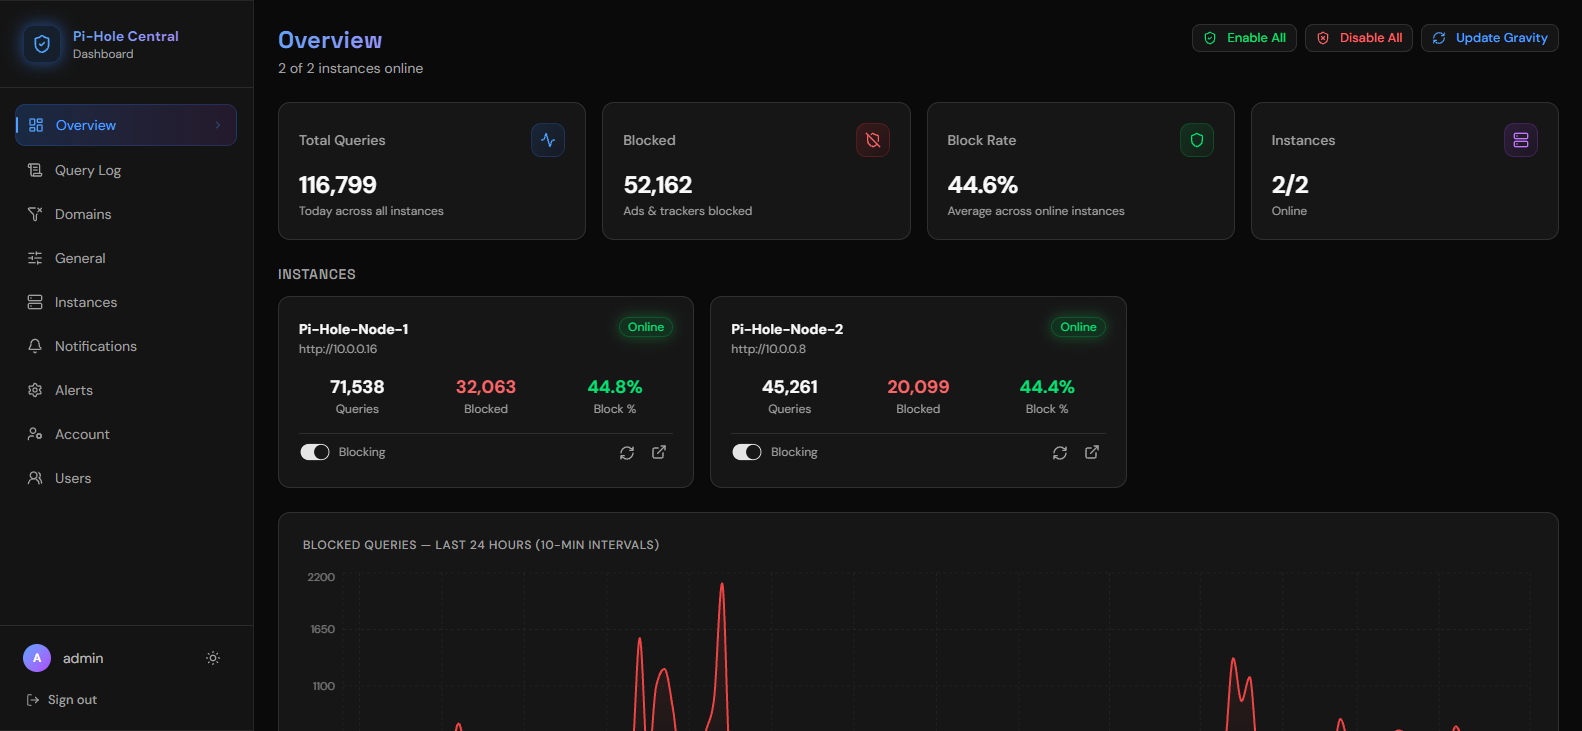
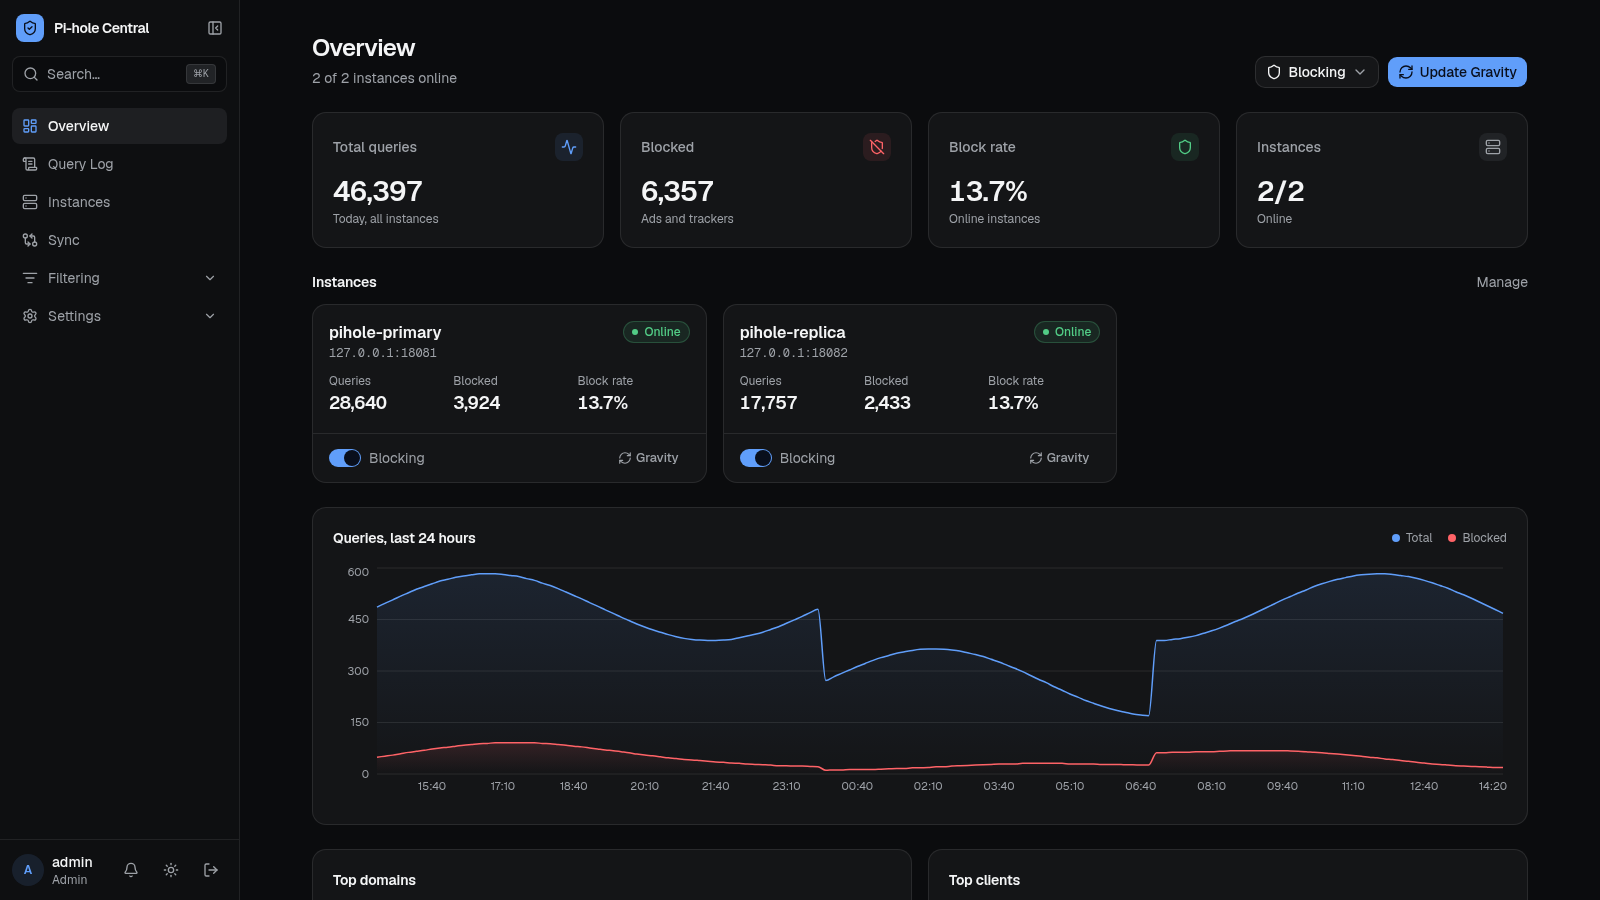
docs: security hardening section, SECURITY-AUDIT.md and a new screenshot
- README: how the app was audited (Cloudflare security-audit skill, five
  scoped runs, independently reproduced findings), how the fixes were proven
  (fail-then-pass lab tests, live checks, 275-assertion regression) and what
  changed
- SECURITY-AUDIT.md: all 42 audit records with verdict, status and fix
- docs/screenshot.png: current UI (demo data)

diff --git a/SECURITY-AUDIT.md b/SECURITY-AUDIT.md
@@ -1,0 +1,99 @@
+# Security audit and fix pass
+
+Pi-Hole Central was audited in November 2026 with the open-source [security-audit skill from Cloudflare](https://github.com/cloudflare/security-audit-skill) (commit `c1c8a8c`), run by Claude Code agents under the maintainer's direction, and every result was then fixed and re-tested. This file lists every record the audit produced and how it was closed. It is a self-run audit, not a third-party penetration test.
+
+## How the audit worked
+
+- **Five scoped runs**, each with its own budget of agents:
+  - Run 1: Unauthenticated surface, sign-in and sessions, viewer-to-admin authorization on every API route, live event stream, users, audit log.
+  - Run 2: SSH command construction and host keys, Pi-hole API path building, background jobs (poller, recovery, watchdog, DNS schedules).
+  - Run 3A: Secrets at rest and in transit, SSRF and other outbound requests.
+  - Run 3B: Backups and restore, rendering, audit log, nebula-sync parsing.
+  - Run 4: Build, deploy and supply chain.
+- **Hunters, verifiers, critics.** Hunter agents looked for issues; independent verifier agents had to **reproduce** each candidate in an isolated lab (no network access, a read-only copy of the code, mock Pi-hole and SSH servers) before it counted; critic passes looked for areas the hunters missed. Leads that only a real deployment could settle were checked read-only against the live system.
+- **Verdicts are never edited afterwards.** "Confirmed" = reproduced; "Lead, checked" = needed a live check, then fixed; "Rejected" = the reproduction or the threat model did not hold.
+
+## How the fixes were verified
+
+- Each fix shipped with a **lab check that fails on the old code and passes on the new one**, and a **live check** after it was deployed.
+- Fixes were deployed in phases with a pinned, SHA-verified deploy and a database backup before each one.
+- A **final regression run** on the released code: 275 lab assertions, 0 failures. Automatic recovery was also tested live on a real Pi-hole node (FTL stopped, network path cut, update in progress).
+
+**Totals:** 42 records: 21 confirmed findings (2 Medium, 19 Low; none Critical or High), 15 leads, 6 rejected. Every confirmed finding and lead is fixed; two rejected items were hardened anyway. **None is open.**
+
+## Run 1: Unauthenticated surface, sign-in and sessions, viewer-to-admin authorization on every API route, live event stream, users, audit log
+
+| ID | Verdict | Finding (as recorded) | Status | Fix |
+|---|---|---|---|---|
+| R1-NV1 | Lead, checked | Admin API POST routes accept text/plain requests from other origins on the same site, because SameSite=Lax is the only CSRF control | Hardened | State-changing API calls and the live stream now require a same-origin request (Sec-Fetch-Site / Origin); cross-site requests get 403. |
+| R1-NV2 | Lead, checked | Session cookie is non-Secure and host-only on the bare IP, so any other HTTP service on that IP can read or replace it, and it travels in cleartext | Fixed | Run behind an HTTPS reverse proxy with Secure `__Host-`/`__Secure-` cookies, the app port firewalled to the proxy, and the proxy-to-app hop also on TLS with CA verification (see README). |
+| R1-F2 | Confirmed (Low) | SSE live stream keeps sending data to a user after the app deletes them | Fixed | The live stream ends when the user is deleted or their session is revoked (re-checked every 30 s). |
+| R1-F3 | Confirmed (Low) | Settings and watchdog PUT save earlier fields, then return 400; the settings change gets no audit row, including from the shipped Sync page save | Fixed | The whole body is validated first, written in one transaction, then audited; malformed JSON returns 400 with nothing saved. |
+| R1-F4 | Confirmed (Low) | Audit log records a caller-chosen IP address from X-Forwarded-For | Fixed | The audit IP comes only from the proxy-set `X-Real-IP`, never from `X-Forwarded-For`. |
+| R1-F5 | Confirmed (Low) | Security-relevant changes (watchdog, notification channels, alert settings, own password, Unbound actions, sign-ins) leave no audit-log row | Fixed | All security-relevant changes and every sign-in (success and failure) are audited; failed-sign-in rows are capped so they cannot flood the log. |
+| R1-F1 | Confirmed (Medium) | Captured session tokens stay valid after password change, admin password reset and sign-out (stateless JWT with no credential binding) | Fixed | Each user has a token version carried in the session: password change, admin reset, demotion and sign-out end every session that user has. |
+| R1-F6 | Confirmed (Low) | User PATCH commits a role change before validating the password, then returns 400 without an audit record | Fixed | Role and password changes are validated before anything is saved, then applied and audited together. |
+
+## Run 2: SSH command construction and host keys, Pi-hole API path building, background jobs (poller, recovery, watchdog, DNS schedules)
+
+| ID | Verdict | Finding (as recorded) | Status | Fix |
+|---|---|---|---|---|
+| R2-F2 | Confirmed (Low) | Instance URL change keeps the stored SSH password and sends it to the new host, which is pinned on first use | Fixed | Changing an instance's host clears its stored SSH password. |
+| — | Rejected | Admin API POST routes accept text/plain requests from other origins on the same site, because SameSite=Lax is the only CSRF control (no same-site attacker origin exists on the live access path) | No change | Not a vulnerability (reproduction or threat model did not hold). |
+| R2-F3 | Confirmed (Low) | Admin session cookie and login password travel in cleartext over plain HTTP on a flat LAN shared with less-trusted devices, and a captured token replays as admin for up to 30 days | Fixed | As R1-NV2: HTTPS-only access through a reverse proxy, Secure cookies, app port closed to everything but the proxy. |
+| R2-F4 | Confirmed (Low) | A viewer can hold any number of non-reading /api/events streams, and each one keeps one more frame in the shared Node process every 30 s with no bound (no backpressure check, no subscriber cap, no stalled-reader timeout) | Fixed | Per-user and per-process stream caps, and nothing is queued to a stream that is not reading, so memory stays flat; a stalled connection itself is closed by the reverse proxy's send timeout. |
+| R2-NV1 | Lead, checked | Viewer can force unlimited, uncoalesced root SSH sessions (docker inspect/logs) to the nebula host via /api/nebula/status?refresh=1 | Fixed | Forced refresh is admin-only, refreshes are coalesced with a 10 s minimum interval, and container logs are shown to admins only. |
+| R2-F1 | Confirmed (Medium) | Unauthenticated login attempts run cost-12 pure-JS bcrypt on the shared event loop with no rate or concurrency gate | Fixed | Sign-in is gated per address and per user, and password hashing runs in a worker thread instead of the event loop. |
+| R2-F5 | Confirmed (Low) | Disabling, deleting or narrowing a DNS schedule mid-window can be overwritten by an in-flight cron evaluation, leaving the window state (e.g. blocking off) applied indefinitely | Fixed | A schedule lock stops an in-flight evaluation from overwriting a schedule that was just disabled, deleted or narrowed. |
+| R2-NV2 | Lead, checked | Viewer sessions can keep many uncached, uncancelled live Pi-hole API calls (30-day history, 1000-row query scans) running on the DNS nodes, including admin-disabled ones | Fixed | Long history is cached with in-flight coalescing, heavy node calls are limited to one per node, calls are cancelled when the browser disconnects, disabled nodes get no calls, and query parameters are clamped. |
+| R2-F6 | Confirmed (Low) | A dot-only item ('.' or '..') in a Pi-hole API path segment retargets the request, so reverting a temporary regex allow/deny of '.' never removes the stored entry | Fixed | Dot-only path items are rejected before any node call. |
+| R2-F7 | Confirmed (Low) | Disabling a Pi-hole instance does not stop an in-flight SSH recovery loop; re-enabling it starts a second concurrent loop | Fixed | Disabling or deleting a node cancels its in-flight recovery at the next step; a re-enable cannot start a second loop. |
+| R2-NV3 | Lead, checked | No per-node operation lock between an admin-started 'pihole -up' and automated SSH recovery, so recovery can restart FTL (and, if the API stays down, reboot) mid-update | Fixed | A per-node maintenance lock is shared by update, gravity, backup, recovery and watchdog; a second update is refused while one runs. |
+| R2-F8 | Confirmed (Low) | Recovery restart/reboot budget and the 'manual intervention required' stop are held only in memory, so every app restart re-arms 3 FTL restarts and a 'sudo reboot' (and resets the watchdog cooldown) | Fixed | The recovery budget and the "manual intervention required" stop are stored in the database and survive restarts; at most one automatic reboot per node per 24 h. |
+| R2-NV4 | Lead, checked | Automated recovery restarts FTL three times and then reboots each Pi-hole node based only on app-side HTTP timeouts, with no node-local or DNS-plane check and no cross-node coordination | Fixed | Before any restart or reboot the app checks the node's own API and DNS over SSH; a reboot also needs local DNS down; if every node fails at once, or the app itself stalls, it alerts instead of acting; never two nodes at once. |
+| R2-NV5 | Lead, checked | Watchdog turns the CLOSE-WAIT count on a node's :80 (web plane) into a restart of pihole-FTL (DNS plane), with only an in-memory 15-minute cooldown per node and no staggering across nodes | Fixed | The watchdog counts FTL's web ports (80 and 443), restarts only when the API is down on the node itself, and keeps its cooldown and a daily cap in the database. |
+
+## Run 3A: Secrets at rest and in transit, SSRF and other outbound requests
+
+| ID | Verdict | Finding (as recorded) | Status | Fix |
+|---|---|---|---|---|
+| R3A-F1 | Confirmed (Low) | Changing the backup webhook URL keeps the stored X-Webhook-Token and sends it to the new destination | Fixed | Changing the webhook URL clears the stored token unless a new token is supplied with it. |
+| R3A-NV1 | Lead, checked | Backup webhook X-Webhook-Token is forwarded to any cross-origin redirect target | Fixed | Webhook requests never follow redirects. |
+| R3A-NV2 | Lead, checked | Viewer-readable nebula status returns raw nebula-sync container logs, unfiltered, from a root SSH session | Fixed | As R2-NV1: raw container logs are returned to admins only. |
+| R3A-F2 | Confirmed (Low) | Unbounded email push awaited under the global poll mutex stalls offline detection and auto-recovery for all Pi-hole nodes | Fixed | SMTP connections have timeouts, and sending a notification no longer holds up polling or recovery. |
+| R3A-F3 | Confirmed (Low) | Email channel sends SMTP AUTH credentials in cleartext when an on-path party strips STARTTLS | Fixed | SMTP requires TLS before it authenticates. |
+| R3A-NV3 | Lead, checked | Pi-hole node password and SID go over plain http to an admin-configured hostname, which may be resolved through a managed Pi-hole | Fixed | Nodes are reached over https, trusted against your own CA only (`PIHOLE_CA_PATH`); IP-literal instance URLs avoid DNS lookups through the nodes themselves. |
+| R3A-NV4 | Lead, checked | A Pi-hole node can redirect the app server's Pi-hole fetches to any destination, and viewers can read the response (request forgery from the app's network position) | Fixed | Node requests never follow redirects (any 3xx is an error), and each session is bound to the URL that issued it. |
+
+## Run 3B: Backups and restore, rendering, audit log, nebula-sync parsing
+
+| ID | Verdict | Finding (as recorded) | Status | Fix |
+|---|---|---|---|---|
+| R3B-NV1 | Lead, checked | Teleporter zip download is served with no cache directives; caching by the reverse proxy is unverified | Fixed | Backup downloads are sent with `Cache-Control: no-store`. |
+| R3B-F1 | Confirmed (Low) | Deleting an instance leaves its Teleporter backup zips on disk, outside the UI and retention | Fixed | Deleting an instance also deletes its backup files. |
+| R3B-NV2 | Lead, checked | A Teleporter restore that reaches the node but gets a node error or the 60 s timeout leaves no audit row | Fixed | Restores are audited whatever the node answers, including errors and timeouts. |
+| — | Rejected | Teleporter restore can permanently reinstate an expired 'temporary' allow/deny entry and desync scheduled blocking state | No change | Not a vulnerability (reproduction or threat model did not hold). |
+| R3B-F2 | Confirmed (Low) | Any 2xx Teleporter reply counts as a good backup and rotates valid restore points out of keep-last-N retention | Fixed | Only a valid Teleporter archive counts as a backup, so a bad reply can never rotate good restore points out. |
+| R3B-F3 | Confirmed (Low) | A backup whose row insert fails (instance deleted mid-export) leaves an untracked Teleporter zip on disk | Fixed | The backup row is written before the file, and every failure path removes the file. |
+| — | Rejected | Nebula drift check compares only item counts, so divergence that keeps counts equal reads as in sync (a monitoring-coverage limit, not a vulnerability) | No change | Not a vulnerability (reproduction or threat model did not hold). |
+| R3B-F4 | Confirmed (Low) | Teleporter export reads a node-controlled body of any size into memory and writes it to the shared data volume | Fixed | Node replies, including Teleporter exports, are size-capped. |
+
+## Run 4: Build, deploy and supply chain
+
+| ID | Verdict | Finding (as recorded) | Status | Fix |
+|---|---|---|---|---|
+| — | Rejected | Checkout .env is baked into the image as /app/.env and reloaded at start (hardening only: no lower-trust actor or affected principal) | Hardened | Hardened anyway: `.env` is excluded from the image build context. |
+| — | Rejected | Root container writes the SQLite DB and Teleporter backups with default modes (0644, dirs 0755) into the host ./data bind mount | Hardened | Hardened anyway: the data directory and files are owner-only. |
+| R4-NV1 | Lead, checked | No frame-ancestors / X-Frame-Options: a same-site sibling origin can clickjack one-click admin actions (e.g. disable DNS blocking on a node) | Fixed | `Content-Security-Policy: frame-ancestors 'none'` and `X-Frame-Options: DENY` (plus `nosniff` and a same-origin referrer policy). |
+| — | Rejected | The better-sqlite3 native addon in the runtime image comes from a mutable GitHub release asset that no digest pins | No change | Not a vulnerability (reproduction or threat model did not hold). |
+| R4-NV2 | Lead, checked | deploy.sh pulls over unauthenticated plain HTTP and runs whatever commit it receives as root on the LXC, with no signature or expected-SHA check | Fixed | The deploy script fetches over SSH with a pinned host key and a read-only deploy key, deploys only an expected full commit SHA that fast-forwards from what is live, and re-runs itself from the verified commit; the main branch is protected. |
+
+## Known limits, decided rather than overlooked
+
+- Encrypted fields are not bound to their database row (no AAD): adding it means a new ciphertext format and re-encrypting everything; the encryption key is never rotated.
+- A viewer account can read some admin configuration through the API, and error text is not filtered for viewers. Revisit if you give viewers to people you do not trust.
+- Traffic between your reverse proxy and other apps, network segmentation and ARP-level attacks on the LAN are outside this app.
+
+## Reporting a vulnerability
+
+Please use GitHub's private reporting (**Security → Report a vulnerability**) rather than a public issue.

diff --git a/README.md b/README.md
@@ -121,18 +121,43 @@ Two roles, enforced on the server:
 
 ---
 
-## Security
+## Security and hardening
 
-The code went through a multi-pass security audit and fix pass in 2026. Highlights:
+Pi-Hole Central was built with an AI coding agent, so before this release it went through a structured security audit and fix pass instead of being taken on trust. The audit used the open-source [security-audit skill from Cloudflare](https://github.com/cloudflare/security-audit-skill), run by Claude Code agents under the maintainer's direction. It is not a third-party penetration test, but every finding had to be reproduced before it counted, and every fix had to be proven by a test. **The full list of findings and fixes is in [SECURITY-AUDIT.md](SECURITY-AUDIT.md).**
 
-- Sessions are revoked on password change, admin reset, demotion and sign-out
-- Sign-in is rate-limited per address and per user; password hashing runs off the main thread
-- State-changing API calls and the live stream refuse cross-site requests; the dashboard cannot be framed
-- Pi-hole and SSH passwords are stored encrypted (AES-256-GCM); node traffic can be pinned to your own CA
-- Viewer-reachable node calls are cached, coalesced and limited per node; disabled nodes get no calls
-- Deploys and Docker images are pinned; the container runs with an owner-only data directory
+**The audit (November 2026).** Five scoped runs covered the codebase:
 
-Please report security issues privately via GitHub (Security → Report a vulnerability) rather than in a public issue.
+| Run | Scope |
+|---|---|
+| 1 | Unauthenticated surface, sign-in and sessions, viewer-to-admin authorization on every API route, the live event stream, users, audit log |
+| 2 | SSH command construction and host keys, Pi-hole API path building, background jobs (poller, recovery, watchdog, DNS schedules) |
+| 3A | Secrets at rest and in transit, SSRF and other outbound requests |
+| 3B | Backups and restore, rendering, audit log, nebula-sync parsing |
+| 4 | Build, deploy and supply chain |
+
+Hunter agents looked for issues, independent verifier agents had to **reproduce each candidate** in an isolated lab (no network access, a read-only copy of the code, mock Pi-holes and SSH servers), and critic passes looked for areas the hunters missed.
+
+**Result:** 42 records: 21 confirmed findings (2 Medium, 19 Low, none Critical or High), 15 leads that needed checking against a real deployment, and 6 rejected as not vulnerabilities. **All 36 confirmed findings and leads are fixed or hardened; none is open.**
+
+**The fix pass.** Fixes shipped in phases, each deployed separately, each with:
+- a **lab test that fails on the old code and passes on the new** (a test that passes either way proves nothing);
+- a **live check** on the running deployment after release;
+- and a **final regression run** over the released code: 275 lab assertions, 0 failures.
+
+Some of what changed:
+- **Sessions and sign-in:** sessions can be revoked (password change, admin reset, demotion and sign-out end every session); sign-in is rate-limited per address and per user; password hashing runs off the main thread so a login flood can't stall the app
+- **Cross-site protection:** state-changing API calls and the live stream refuse cross-site requests; the dashboard can't be framed
+- **Node traffic:** https to the Pi-hole nodes pinned to your own CA, no redirects followed, sessions bound to the URL that issued them, node certificate expiry alerts
+- **Automatic recovery:** checks on the node itself before restarting or rebooting, never acts on two nodes at once, limits reboots, and keeps those limits across app restarts
+- **Maintenance lock:** updates, gravity runs and backups take a per-node lock, so recovery can't interfere with them
+- **Node load:** viewer-triggered node calls are cached, coalesced, cancelled when the browser disconnects, and capped per node; disabled nodes get no calls
+- **Backups:** only a valid Teleporter archive counts as a backup; files are removed with their instance
+- **Notifications:** webhook tokens don't follow redirects; email requires TLS
+- **Supply chain:** Docker base image pinned by digest, owner-only data files, and a deploy script that only deploys an expected, fast-forward commit over an authenticated channel
+
+**Known limits** (decided, not overlooked): stored secrets aren't bound to their database row (that needs a new ciphertext format); viewers can read some admin configuration through the API; your reverse proxy's traffic to *other* apps is out of scope.
+
+**Reporting a vulnerability:** please use GitHub's private reporting (**Security → Report a vulnerability**) rather than a public issue.
 
 ---
 
